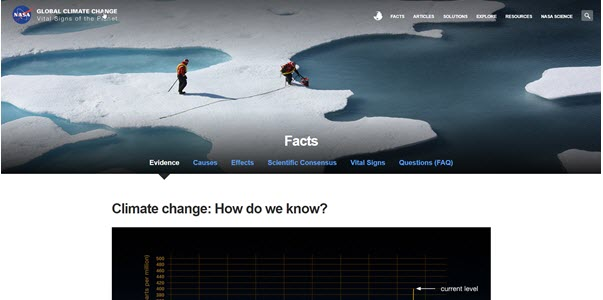
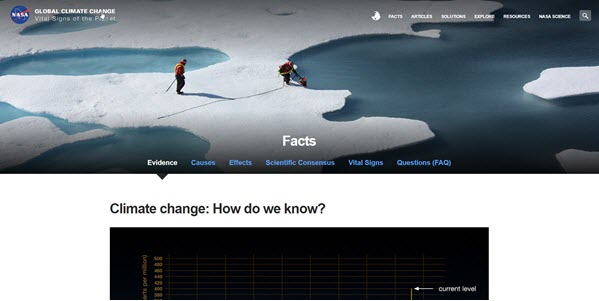
U pdate

diff --git a/index.html b/index.html
@@ -12,7 +12,19 @@
 		<meta name="keywords" content="environment, climate, change, global, warming, greenhouse, enhanced, effect, accountability, criminality, cuplability, IPCC, NASA">
 		<meta name="viewport" content="width=device-width, initial-scale=1" />
 		<link rel="stylesheet" href="assets/css/main.css" />
+
+		<!-- Global site tag (gtag.js) - Google Analytics -->
+		<script async src="https://www.googletagmanager.com/gtag/js?id=UA-58191121-1"></script>
+		<script>
+		window.dataLayer = window.dataLayer || [];
+		function gtag(){dataLayer.push(arguments);}
+		gtag('js', new Date());
+
+		gtag('config', 'UA-58191121-1');
+		</script>
+
 	</head>
+	
 	<body>
 
 		<!-- Header -->
@@ -150,22 +162,22 @@
 					<div class="gallery">
 						<div>
 							<div class="image fit">
-								<a target="_blank" href="https://climate.nasa.gov/evidence"><img src="images/website-4.jpg" alt="NASA Climate Change Website" /></a>
+								<a target="_blank" href="https://climate.nasa.gov/evidence"><img class="borders" src="images/website-4.jpg" alt="NASA Climate Change Website" /></a>
 							</div>
 						</div>
 						<div>
 							<div class="image fit">
-								<a target="_blank" href="http://www.climatecentral.org/"><img src="images/website-2.jpg" alt="Climate Central Website" /></a>
+								<a target="_blank" href="http://www.climatecentral.org/"><img class="borders" src="images/website-2.jpg" alt="Climate Central Website" /></a>
 							</div>
 						</div>
 						<div>
 							<div class="image fit">
-								<a target="_blank" href="https://www.skepticalscience.com/"><img src="images/website-3.jpg" alt="Skeptical Science Website" /></a>
+								<a target="_blank" href="https://www.skepticalscience.com/"><img class="borders" src="images/website-3.jpg" alt="Skeptical Science Website" /></a>
 							</div>
 						</div>
 						<div>
 							<div class="image fit">
-								<a target="_blank" href="https://royalsociety.org/~/media/Royal_Society_Content/policy/projects/climate-evidence-causes/climate-change-evidence-causes.pdf"><img src="images/document-1.jpg" alt="" /></a>
+								<a target="_blank" href="https://royalsociety.org/~/media/Royal_Society_Content/policy/projects/climate-evidence-causes/climate-change-evidence-causes.pdf"><img class="borders" src="images/document-1.jpg" alt="" /></a>
 							</div>
 						</div>
 					</div>

diff --git a/wilful-ignorance.html b/wilful-ignorance.html
@@ -12,7 +12,19 @@
 		<meta name="keywords" content="environment, climate, change, global, warming, greenhouse, enhanced, effect, accountability, criminality, cuplability, IPCC, NASA">
 		<meta name="viewport" content="width=device-width, initial-scale=1" />
 		<link rel="stylesheet" href="assets/css/main.css" />
+	
+		<!-- Global site tag (gtag.js) - Google Analytics -->
+		<script async src="https://www.googletagmanager.com/gtag/js?id=UA-58191121-1"></script>
+		<script>
+		window.dataLayer = window.dataLayer || [];
+		function gtag(){dataLayer.push(arguments);}
+		gtag('js', new Date());
+
+		gtag('config', 'UA-58191121-1');
+		</script>
+	
 	</head>
+	
 	<body class="subpage">
 
 		<!-- Header -->

diff --git a/effect-change.html b/effect-change.html
@@ -12,7 +12,19 @@
 		<meta name="keywords" content="environment, climate, change, global, warming, greenhouse, enhanced, effect, accountability, criminality, cuplability, IPCC, NASA">
 		<meta name="viewport" content="width=device-width, initial-scale=1" />
 		<link rel="stylesheet" href="assets/css/main.css" />
+
+		<!-- Global site tag (gtag.js) - Google Analytics -->
+		<script async src="https://www.googletagmanager.com/gtag/js?id=UA-58191121-1"></script>
+		<script>
+		window.dataLayer = window.dataLayer || [];
+		function gtag(){dataLayer.push(arguments);}
+		gtag('js', new Date());
+
+		gtag('config', 'UA-58191121-1');
+		</script>
+
 	</head>
+
 	<body class="subpage">
 
 		<!-- Header -->

diff --git a/government-policy.html b/government-policy.html
@@ -12,7 +12,19 @@
 		<meta name="keywords" content="environment, climate, change, global, warming, greenhouse, enhanced, effect, accountability, criminality, cuplability, IPCC, NASA">
 		<meta name="viewport" content="width=device-width, initial-scale=1" />
 		<link rel="stylesheet" href="assets/css/main.css" />
+
+		<!-- Global site tag (gtag.js) - Google Analytics -->
+		<script async src="https://www.googletagmanager.com/gtag/js?id=UA-58191121-1"></script>
+		<script>
+		window.dataLayer = window.dataLayer || [];
+		function gtag(){dataLayer.push(arguments);}
+		gtag('js', new Date());
+
+		gtag('config', 'UA-58191121-1');
+		</script>
+
 	</head>
+
 	<body class="subpage">
 
 		<!-- Header -->

diff --git a/moving-on.html b/moving-on.html
@@ -12,7 +12,19 @@
 		<meta name="keywords" content="environment, climate, change, global, warming, greenhouse, enhanced, effect, accountability, criminality, cuplability, IPCC, NASA">
 		<meta name="viewport" content="width=device-width, initial-scale=1" />
 		<link rel="stylesheet" href="assets/css/main.css" />
+
+		<!-- Global site tag (gtag.js) - Google Analytics -->
+		<script async src="https://www.googletagmanager.com/gtag/js?id=UA-58191121-1"></script>
+		<script>
+		window.dataLayer = window.dataLayer || [];
+		function gtag(){dataLayer.push(arguments);}
+		gtag('js', new Date());
+
+		gtag('config', 'UA-58191121-1');
+		</script>
+
 	</head>
+
 	<body class="subpage">
 
 		<!-- Header -->

diff --git a/negligence.html b/negligence.html
@@ -12,7 +12,19 @@
 		<meta name="keywords" content="environment, climate, change, global, warming, greenhouse, enhanced, effect, accountability, criminality, cuplability, IPCC, NASA">
 		<meta name="viewport" content="width=device-width, initial-scale=1" />
 		<link rel="stylesheet" href="assets/css/main.css" />
+
+		<!-- Global site tag (gtag.js) - Google Analytics -->
+		<script async src="https://www.googletagmanager.com/gtag/js?id=UA-58191121-1"></script>
+		<script>
+		window.dataLayer = window.dataLayer || [];
+		function gtag(){dataLayer.push(arguments);}
+		gtag('js', new Date());
+
+		gtag('config', 'UA-58191121-1');
+		</script>
+
 	</head>
+
 	<body class="subpage">
 
 		<!-- Header -->

diff --git a/references.html b/references.html
@@ -12,7 +12,19 @@
 		<meta name="keywords" content="environment, climate, change, global, warming, greenhouse, enhanced, effect, accountability, criminality, cuplability, IPCC, NASA">
 		<meta name="viewport" content="width=device-width, initial-scale=1" />
 		<link rel="stylesheet" href="assets/css/main.css" />
+
+		<!-- Global site tag (gtag.js) - Google Analytics -->
+		<script async src="https://www.googletagmanager.com/gtag/js?id=UA-58191121-1"></script>
+		<script>
+		window.dataLayer = window.dataLayer || [];
+		function gtag(){dataLayer.push(arguments);}
+		gtag('js', new Date());
+
+		gtag('config', 'UA-58191121-1');
+		</script>
+
 	</head>
+
 	<body class="subpage">
 
 		<!-- Header -->

diff --git a/assets/css/main.css b/assets/css/main.css
@@ -4314,11 +4314,19 @@
 /* Ian's Edits */
 
 .tagline {
+
 	font-style: italic;
-	color:#ffff;
+	color:#ffffff;
 }
+
 .security {
+
 	display: block;
 	float: right;
 	margin-right:10px;
+}
+
+.borders {
+	
+	border:1px solid #aaaaaa;
 }
